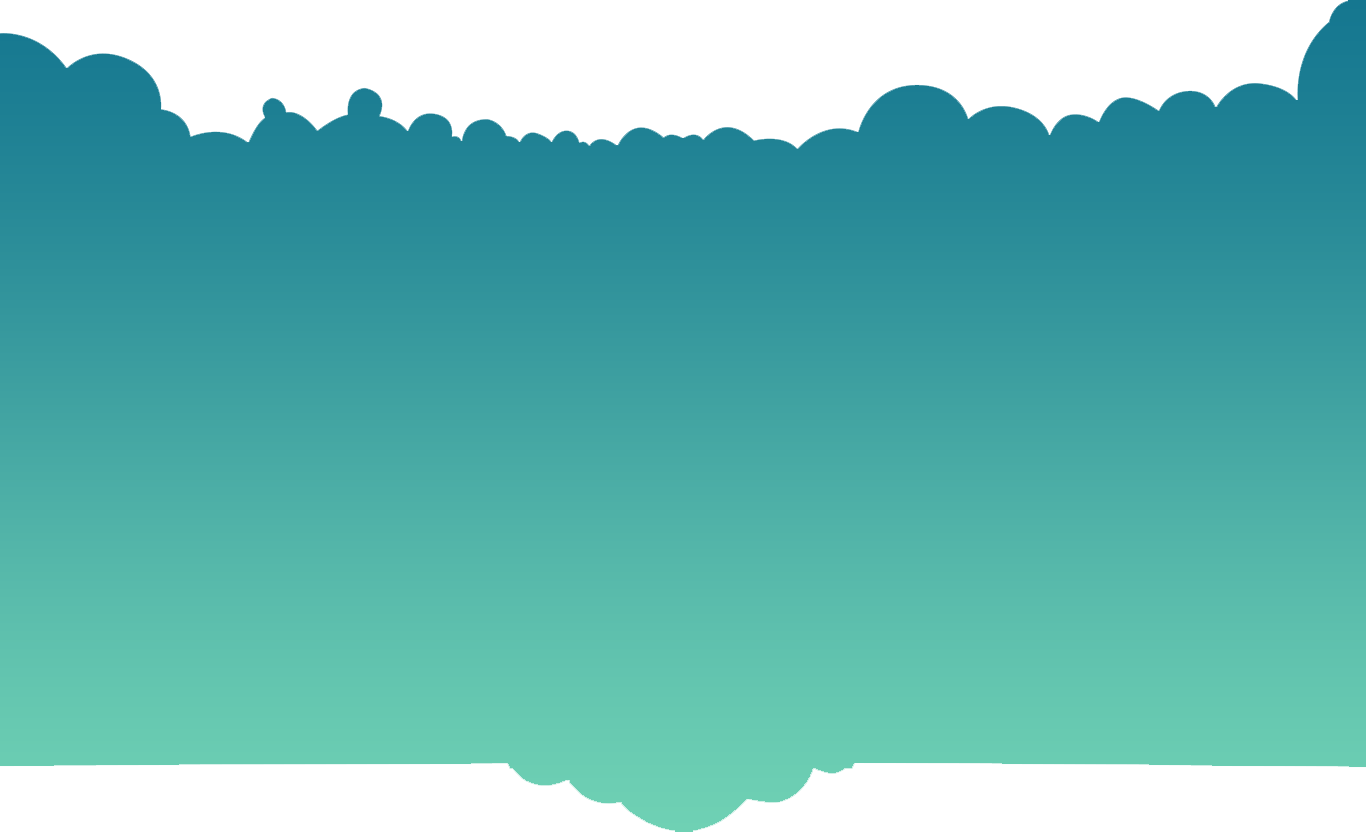
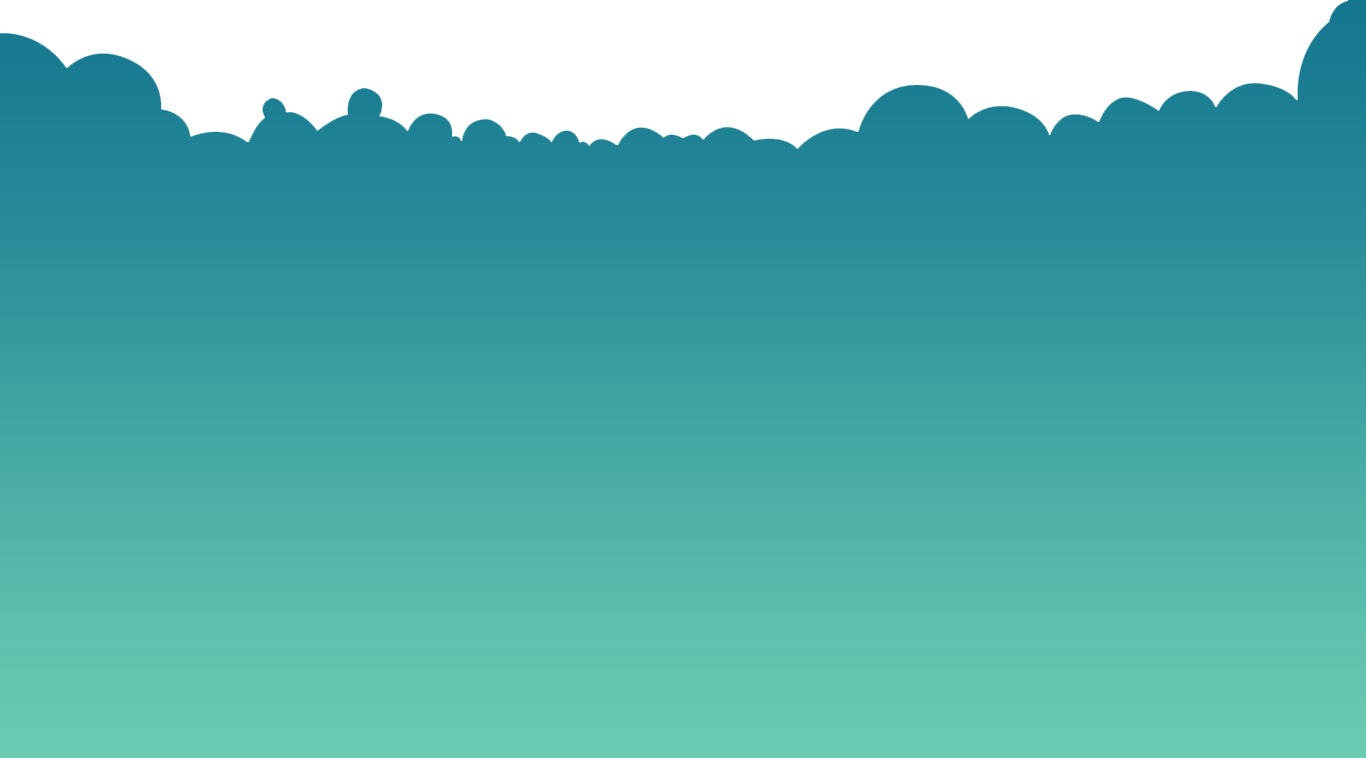
Slightly fixed desktop vers

diff --git a/hoz/static/css/furniture.css b/hoz/static/css/furniture.css
@@ -33,6 +33,7 @@
   background: url(../img/foam!.png);
   background-position: top;
   background-repeat: no-repeat;
+  background-size: cover;
   display: flex;
   flex-direction: column;
   align-items: center;
@@ -40,7 +41,7 @@
 
 #furniture-second-screen h2 {
   margin-top: 60px;
-  margin-bottom: 70px;
+  margin-bottom: 90px;
   font-size: 30px;
 }
 
@@ -53,7 +54,7 @@
   border-collapse: unset;
   border-radius: 10px;
   padding: 1% 5% 1% 4%;
-  margin-bottom: 15px;
+  margin-bottom: 120px;
 }
 
 .furniture-table td {

diff --git a/hoz/static/css/price.css b/hoz/static/css/price.css
@@ -18,7 +18,7 @@
   border: solid 4px #202f4a;
   border-collapse: unset;
   border-radius: 10px;
-  padding: 1% 5% 1% 4%;
+  padding: 1% 4% 1% 3%;
   margin-bottom: 15px;
 }
 
@@ -36,7 +36,7 @@
 /* request */
 
 .request {
-    min-height: calc(100% - 100px);
+    min-height: calc(100%);
     position: relative;
     background: url(../img/foam!.png) no-repeat;
 }

diff --git a/hoz/static/css/carpet.css b/hoz/static/css/carpet.css
@@ -34,7 +34,7 @@
 }
 
 #carpet-second-screen {
-  height: 100%;
+  height: 150%;
   background: url(../img/foam!.png);
   background-position: top;
   background-repeat: no-repeat;
@@ -58,7 +58,7 @@
   border-collapse: unset;
   border-radius: 10px;
   padding: 1% 5% 1% 4%;
-  margin-bottom: 30px;
+  margin-bottom: 120px;
 }
 
 .carpet-table td {

diff --git a/hoz/templates/hoz/carpet.html b/hoz/templates/hoz/carpet.html
@@ -2,7 +2,7 @@
 {% load staticfiles %}
 {% block content %}
 <section class="carpet">
-    <h1>Химчистка мягкой ковров на дому!</h1>
+    <h1>Химчистка ковров на дому!</h1>
     <div class="row row-carpet">
       <div class="col">
         <div class="carpet-block">

diff --git a/hoz/static/css/mattress.css b/hoz/static/css/mattress.css
@@ -52,7 +52,7 @@
   border-collapse: unset;
   border-radius: 10px;
   padding: 1.5% 5.5% 1.5% 4.5%;
-  margin-bottom: 45px;
+  margin-bottom: 120px;
 }
 
 .mattress-table td {

diff --git a/hoz/static/css/main.css b/hoz/static/css/main.css
@@ -399,7 +399,7 @@
 
 
 .hoz-caption-bigger {
-    margin-bottom: 2%;
+    margin-bottom: 3%;
 }
 
 .hoz-caption-bigger h2 {
